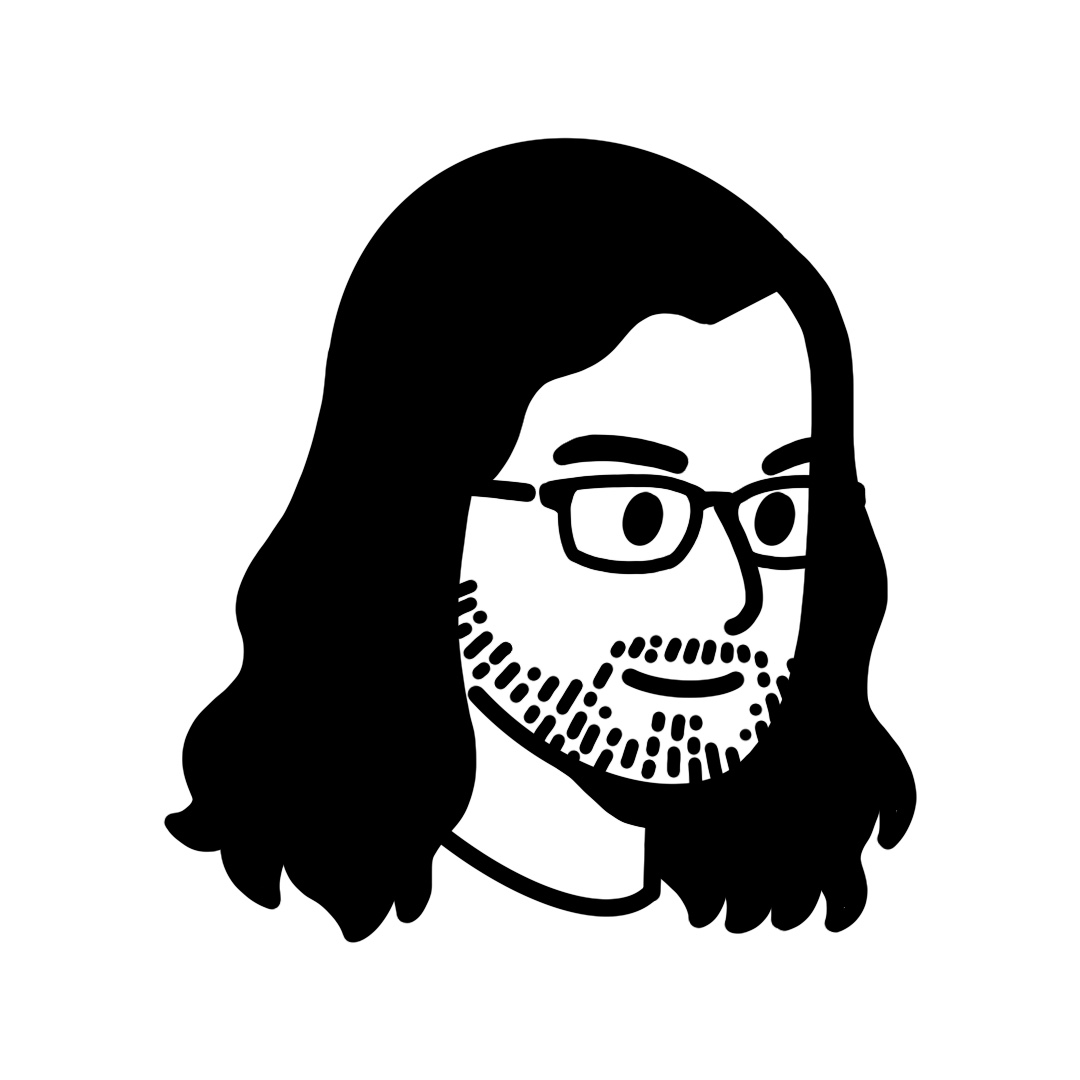
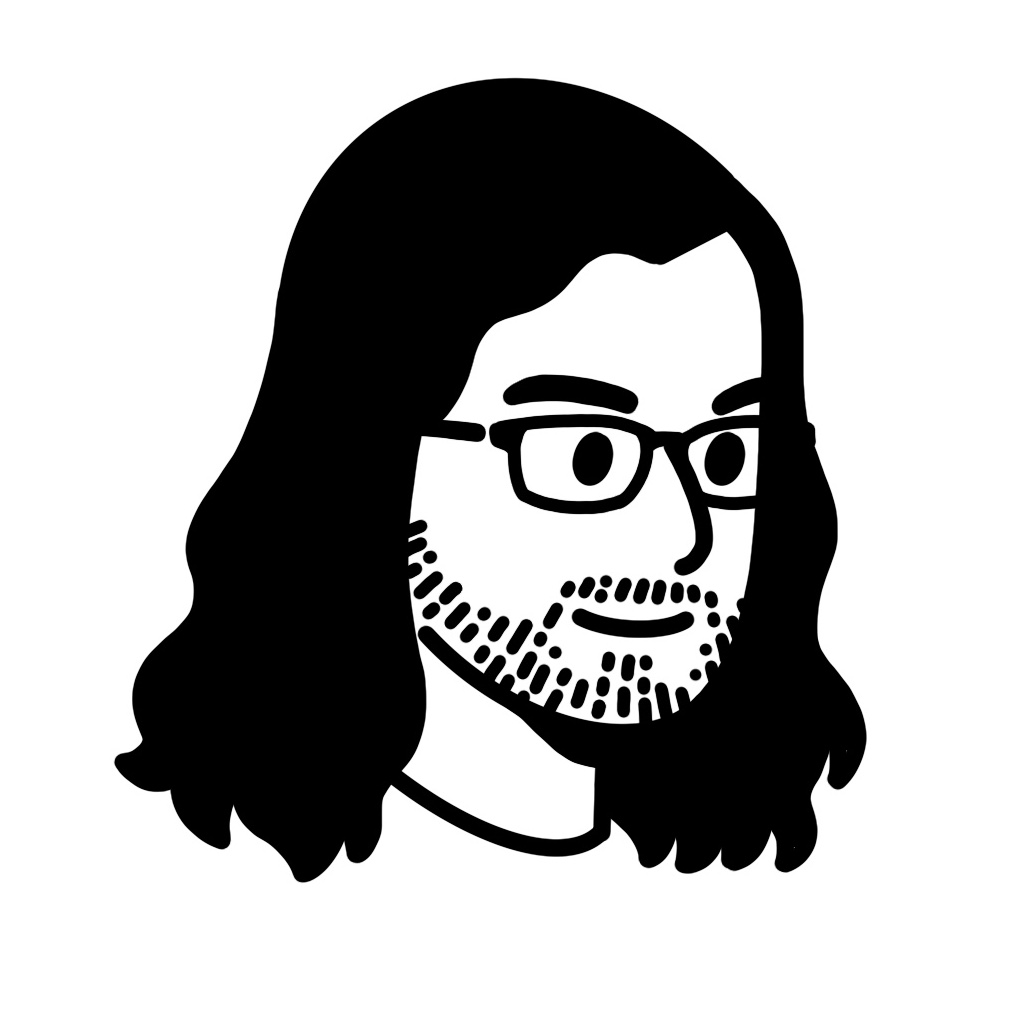
Added my picture

diff --git a/assets/sass/main.scss b/assets/sass/main.scss
@@ -24,6 +24,24 @@ html, body {
   color: #FE6347;
 }
 
+.me {
+  width: auto;
+  position: relative;
+}
+
+.me img {
+  height: 100%;
+  border-radius: 50%;
+  position: absolute;
+  margin-left: 1em;
+  margin-right: 1em;
+}
+
+.switched-direction {
+  display: flex;
+  flex-direction: row;
+}
+
 @media (width >= 70em) and (orientation: landscape) {
   .home-layout {
     flex-direction: row;
@@ -31,5 +49,20 @@ html, body {
   .me-summary {
     height: 100%;
     width: 20em;
+  }
+
+  .me {
+    padding: 1em;
+  }
+
+  .me img {
+    height: auto;
+    width: 100%;
+    position: relative;
+    margin: 0;
+  }
+
+  .switched-direction {
+    flex-direction: column;
   }
 }

diff --git a/layouts/shortcodes/me-image.html b/layouts/shortcodes/me-image.html
@@ -1,0 +1,5 @@
+{{ with resources.Get "images/me.jpg" -}}
+    <div class="me">
+        <img src="{{ .RelPermalink }}" alt="{{ T "me_image_description" }}" />
+    </div>
+{{- end }}

diff --git a/layouts/shortcodes/switched-direction.html b/layouts/shortcodes/switched-direction.html
@@ -1,0 +1,4 @@
+{{/* Displays content in a flex direction that is switched from the main direction of the page */}}
+<div class="switched-direction">
+    {{ .Inner }}
+</div>

diff --git a/content/_index.md b/content/_index.md
@@ -2,6 +2,10 @@
 title: Home
 ---
 
-Hi, my name is <br> **Michael Taylor**
+{{% switched-direction %}}
+  Hi, my name is <br> **Michael Taylor**
+
+  {{< me-image >}}
+{{% /switched-direction %}}
 
 This is my stuff I have worked on and want to share!
